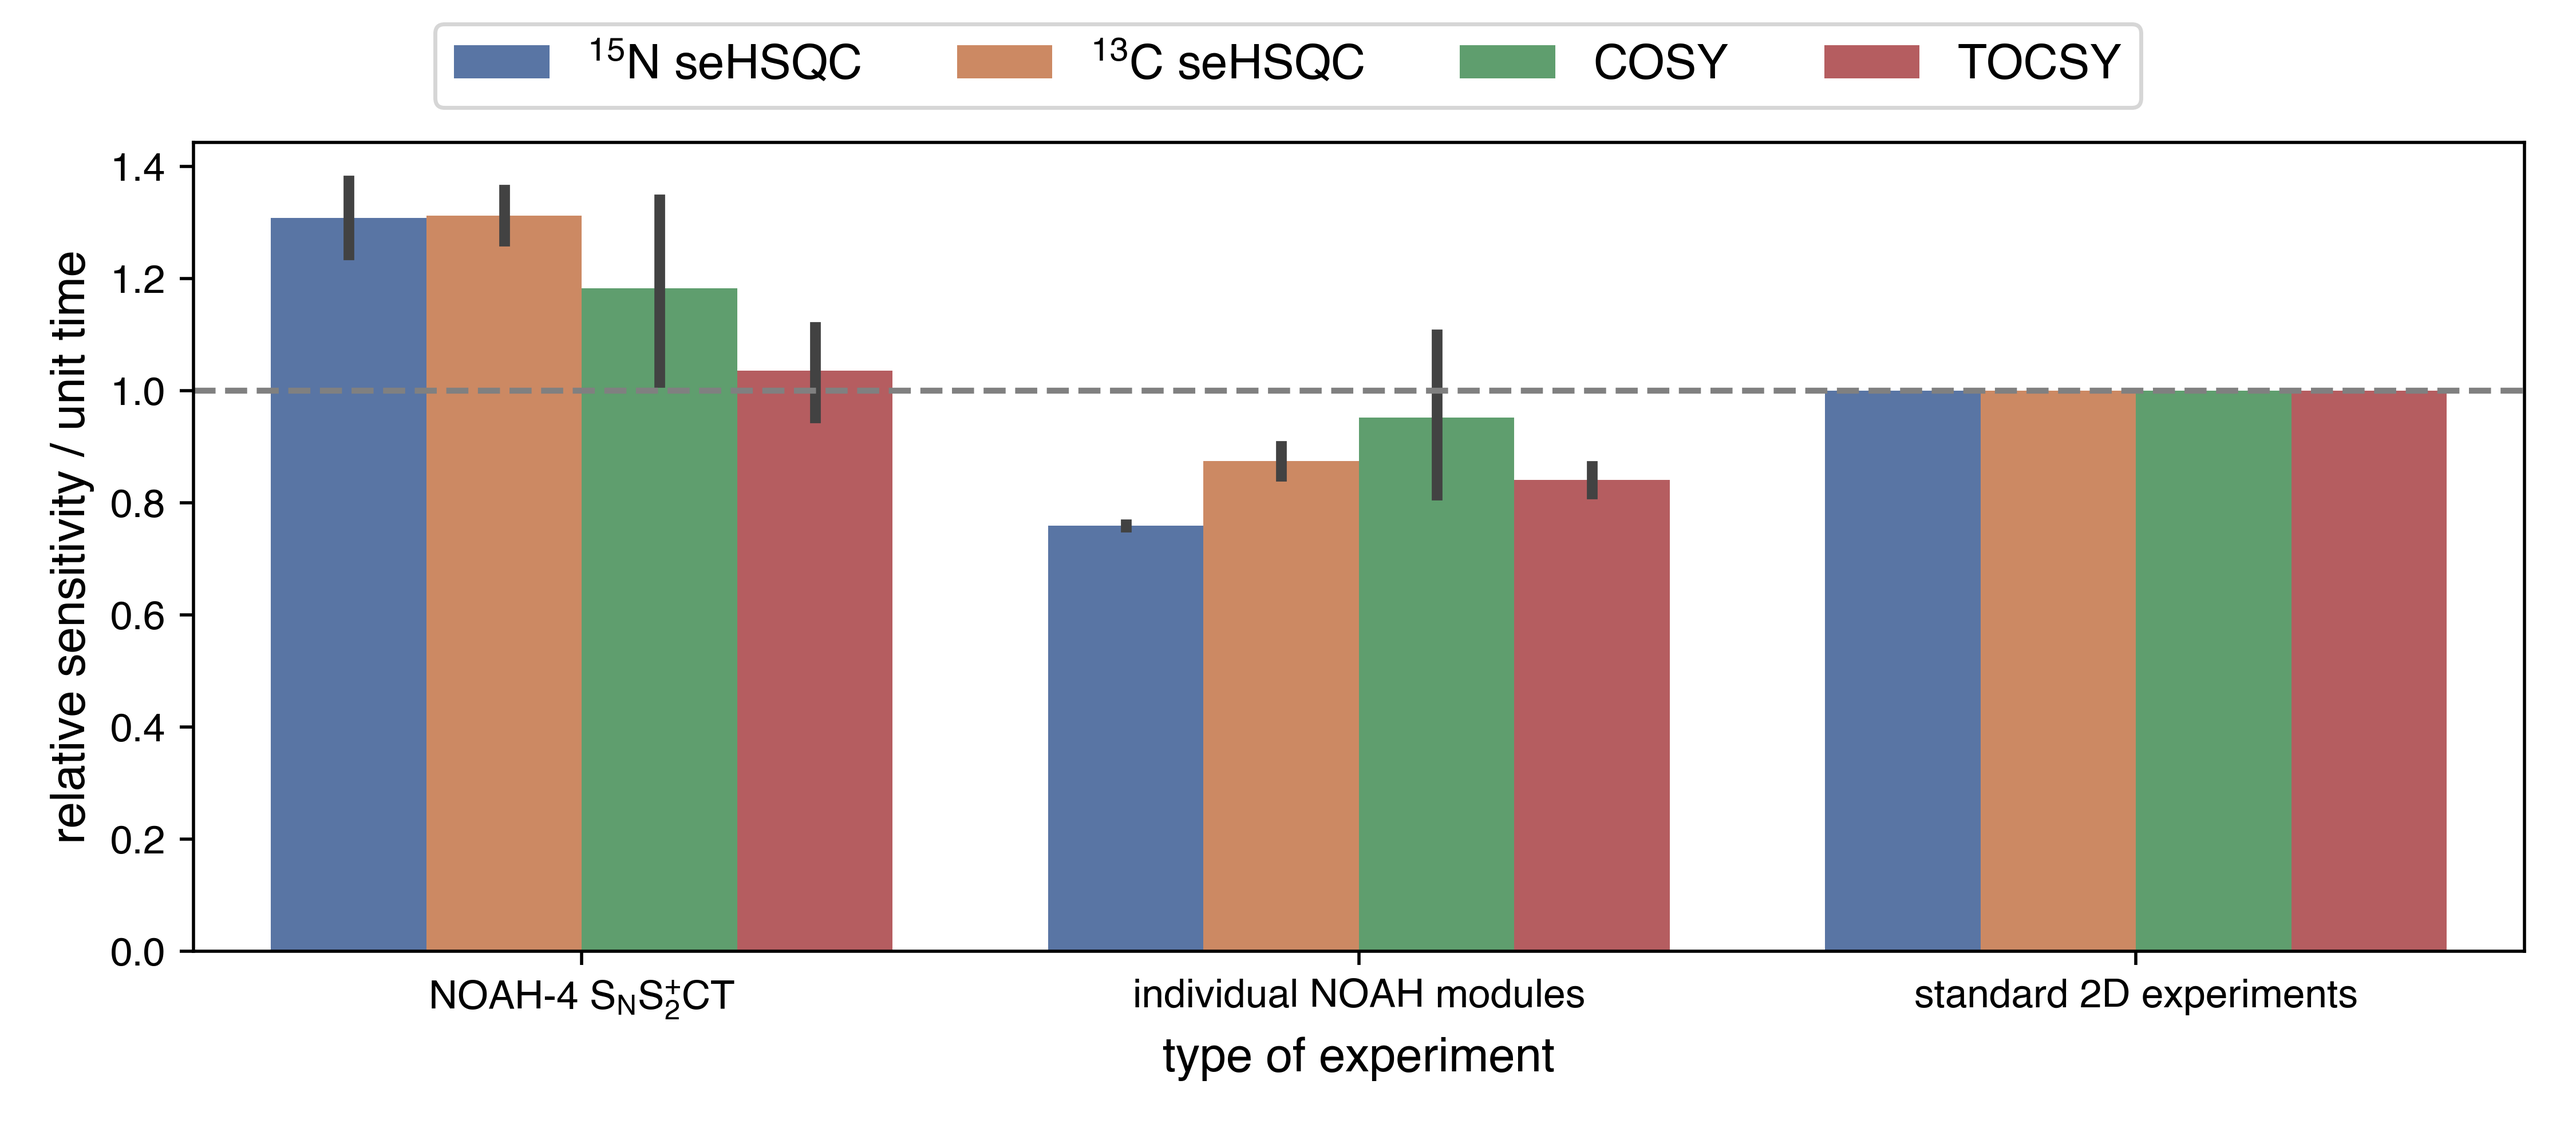
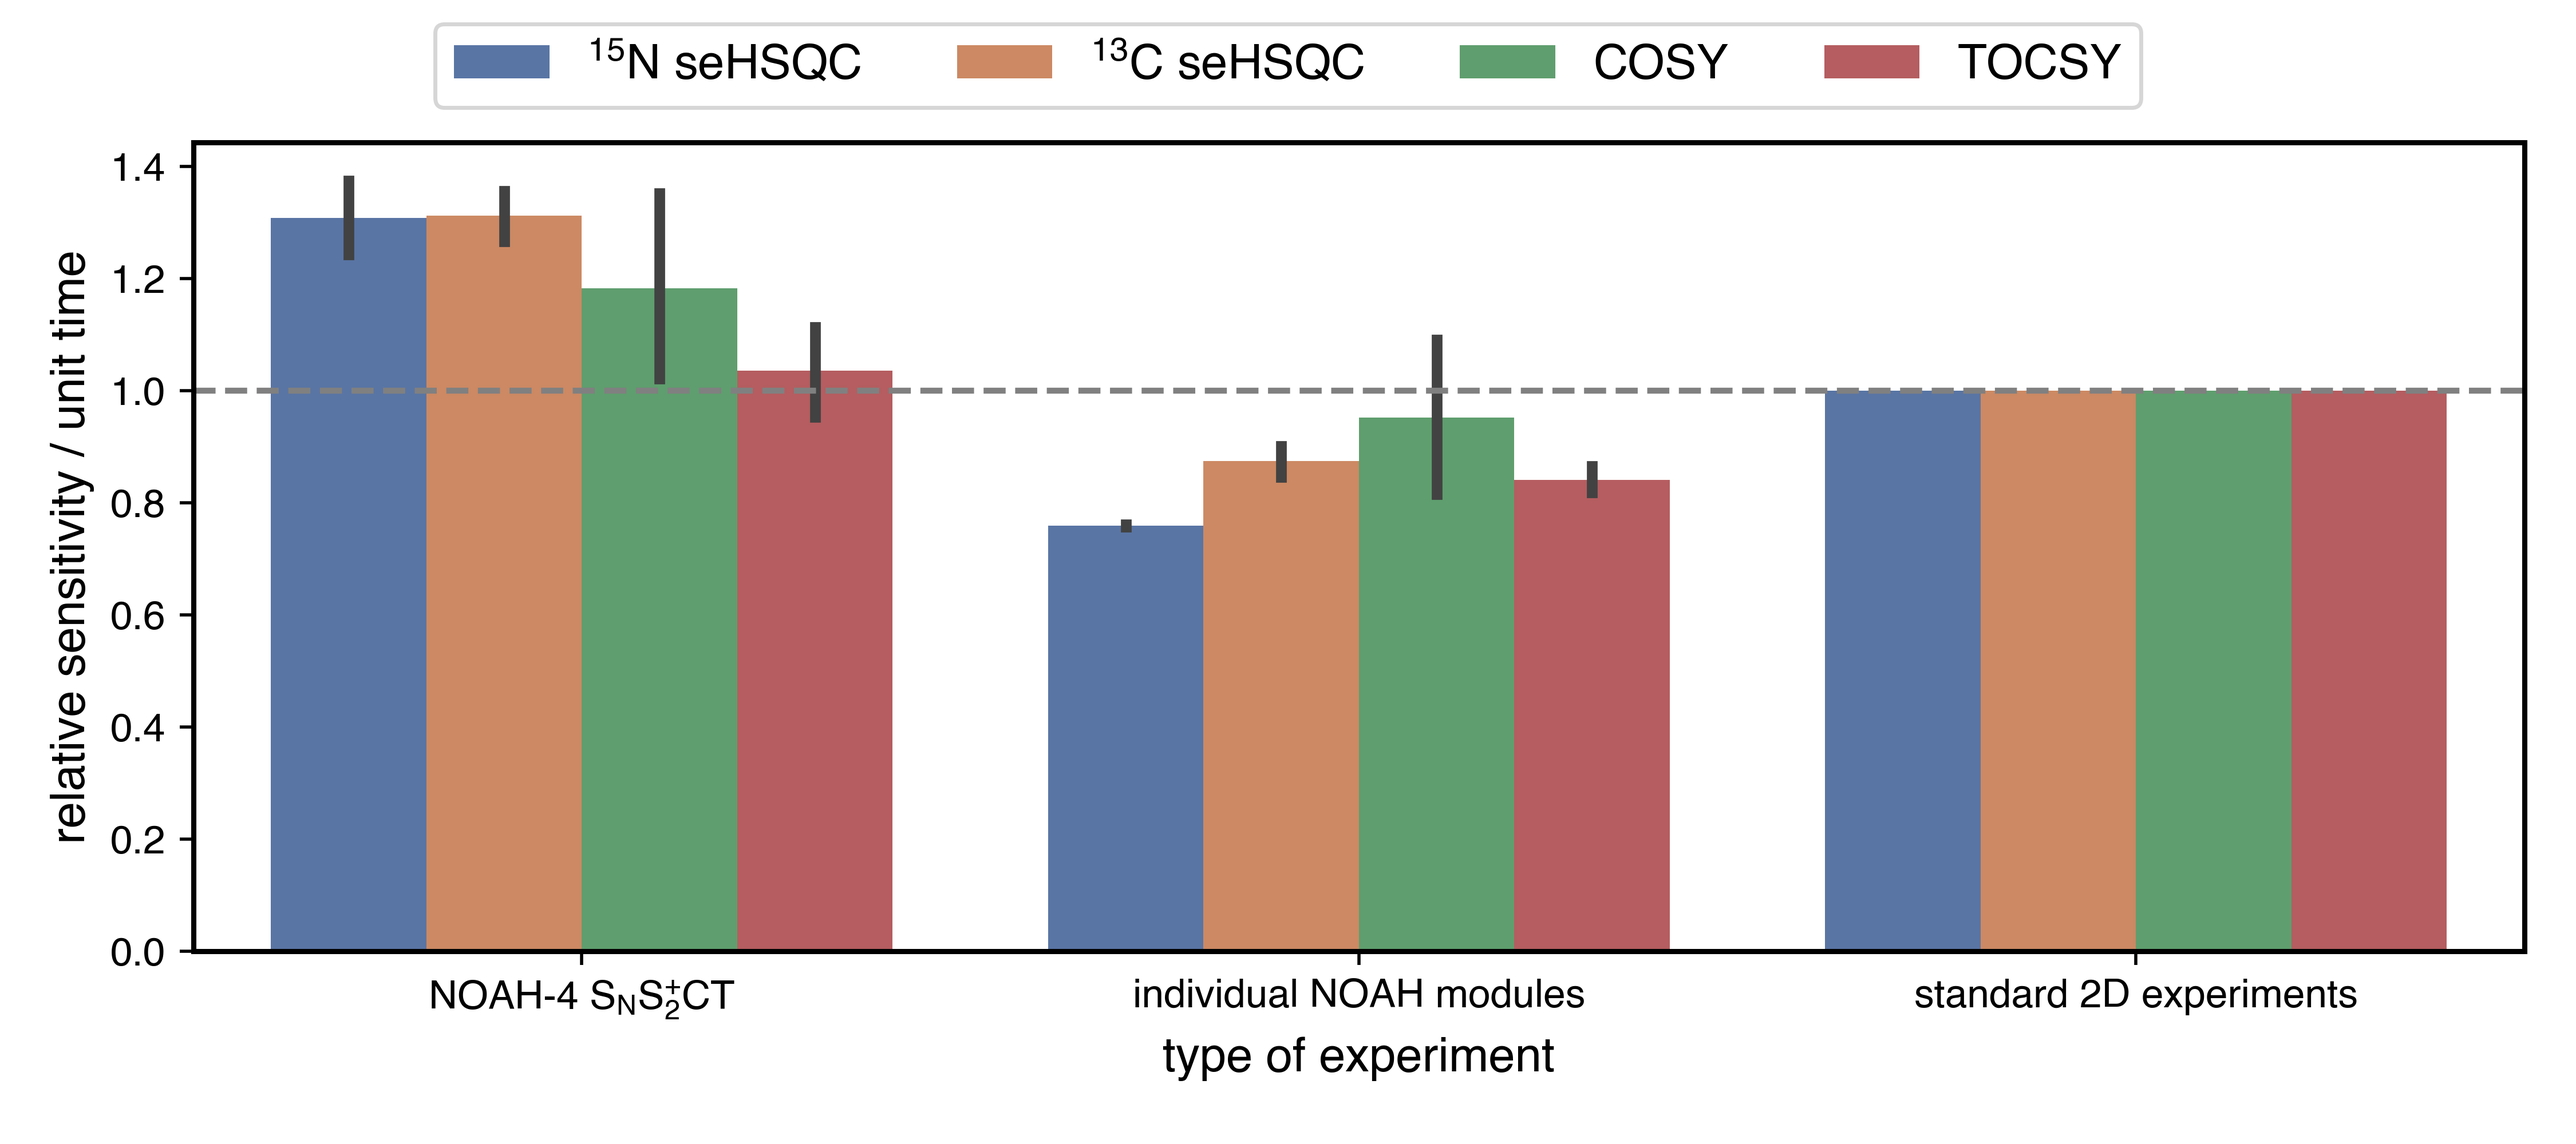
style SNR comparion plots

diff --git a/figures/snr_modules.py b/figures/snr_modules.py
@@ -53,6 +53,7 @@ sns.barplot(x="expt", y="e_t", data=data, palette="deep")
 ax.axhline(y=1, color="grey", linestyle="--")
 ax.set_xlabel("")
 ax.set_ylabel("relative sensitivity / unit time")
+pg.style_axes(ax, "plot")
 
 # pg.show()
 for filetype in [".png", ".svg"]:

diff --git a/figures/snr_bruker.py b/figures/snr_bruker.py
@@ -58,6 +58,7 @@ ax.set_xlabel("type of experiment")
 ax.set_ylabel("relative sensitivity / unit time")
 ax.legend().set_visible(False)
 leg = fig.legend(loc="upper center", ncol=4)
+pg.style_axes(ax, "plot")
 pg.cleanup_figure()
 
 # pg.show()
